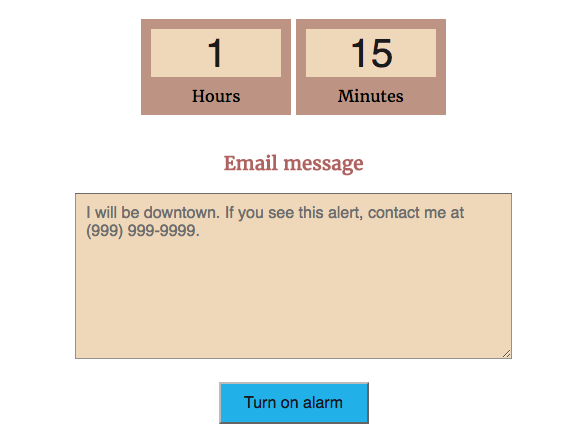
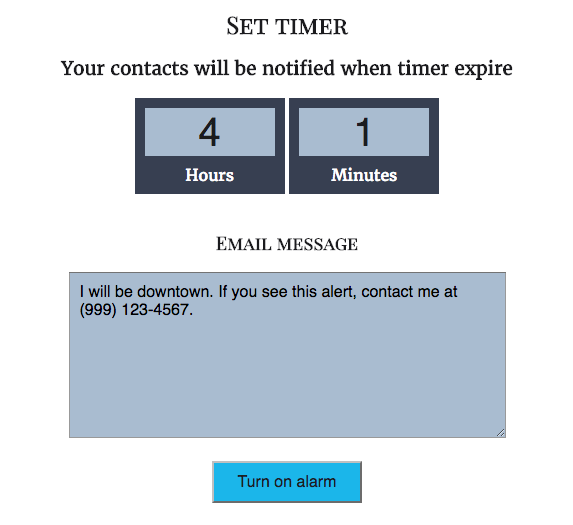
color

diff --git a/public/styles/main.css b/public/styles/main.css
@@ -15,11 +15,11 @@ body {
 main {
     margin: 0 auto;
     text-align: center;
-    color: #b56d69;
+    color: #1B1B1E;
 }
 
 button {
-    background-color: #F1DABF;
+    background-color: #A9BCD0;
     color: #000500;
 }
 
@@ -32,7 +32,7 @@ header {
     margin-bottom: 50px;
     display: flex;
     align-items: flex-end;
-    background-color: #c39b8a;
+    background-color: #58A4B0;
 }
 
 .navigation-container{
@@ -62,7 +62,8 @@ li {
 }
 
 li:hover:not(.active) {
-    background-color: #92817A;
+    background-color: #A9BCD0;
+    color: #F7F3E3;
     cursor: pointer;
 }
 
@@ -79,7 +80,7 @@ li:hover:not(.active) {
     font-weight: bold;
     margin-bottom: 20px;
     font-family: 'Varela Round','Playfair Display SC', serif;
-    color: #000500;
+    color: black;
 }
 
 .logo img {
@@ -98,11 +99,11 @@ li:hover:not(.active) {
     width: 150px;
     padding: 10px;
     margin-bottom: 20px;
-    background-color: #c39b8a;
+    background-color: #373F51;
 }
 
 .clock-text{
-    color: #000500;
+    color: #FFFFFF;
 }
 
 .alarm-container h2{
@@ -120,15 +121,14 @@ input[type='number'] {
     font-size: 30pt;
     border: none;
     text-align: center;
-    background-color: #F1DABF;
-    color: #1D201F;
+    background-color: #A9BCD0;
+    color: #1B1B1E;
 }
 
 textarea {
     padding: 10px;
     margin-bottom: 20px;
-    background-color: #F1DABF;
-    color: #1D201F;
+    background-color: #A9BCD0;
 }
 
 .button {
@@ -178,7 +178,7 @@ textarea {
     margin-top: 20px;
     width: 180px;
     height: 40px;
-    background-color: #F1DABF;
+    background-color: #A9BCD0;
     color: #000500;
 }
 
@@ -192,7 +192,7 @@ textarea {
     margin: 0 auto 30px;
     min-width: 30%;
     padding: 10px;
-    background-color: #c39b8a;
+    background-color: #373F51;
     color: #FFFFFF;
 }
 
@@ -242,6 +242,7 @@ label {
 
 .community-container input {
     display: block;
+    color: #A5243D;
     width: 20px;
     margin: 0 10px;
 }
@@ -251,8 +252,8 @@ label {
     margin: 30px auto;
     width: 180px;
     height: 40px;
-    background-color: #F1DABF;
-    color: #000500;
+    background-color: #A9BCD0;
+    color: #39393A;
 }
 
 #account-delete {
@@ -263,7 +264,7 @@ label {
 /*********************** demo *****************************/
 .demo{
     font-family: 'Merriweather', serif;
-    color: #362417;
+    color: #A5243D;
     margin: 7px 0 0 0;
     font-size: 12pt;
 }
@@ -277,6 +278,5 @@ label {
 
 .active {
     background-color: #FFFFFF;
-    color: #b56d69;
+    color: #39393A;
 }
-

diff --git a/router/userRouter.js b/router/userRouter.js
@@ -150,25 +150,27 @@ router.put('/:email', (req, res) => {
   let updateUser = getUpdateData(req);
   // If adding new contact, send sign-up email to contact
   if(req.body.contacts){
-    User
-    .findOne({'email': req.params.email})
-    .exec()
-    .then((user) => {
-      if(req.body.contacts.length > user.contacts.length){
-        let newContact = req.body.contacts[req.body.contacts.length - 1];
-        sendEmail({
-          from: '"Friend-Alert" <friend.alert.app@gmail.com>',
-          to: newContact.email,
-          subject: `Friend-Alert contact verification from ${user.name}`,
-          html: `Dear ${newContact.name},<br><br>${user.name} ` +
-          `signed you up as an emergency contact on Friend-Alert. ` +
-          `As an emergency contact, you will be alerted by email when ` +
-          `${user.name} is late for his/her user set alarm.<br><br>` +
-          `If you agree to be a Friend-Alert emergency contact, click ` +
-          `<a href="https://friend-alert.herokuapp.com/user/${req.params.email}/${newContact.email}" target="_blank">here</a>.`
-        });
-      }
-    }); // end then
+    if(req.params.email !== 'friend.alert.demo@gmail.com'){
+      User
+      .findOne({'email': req.params.email})
+      .exec()
+      .then((user) => {
+        if(req.body.contacts.length > user.contacts.length){
+          let newContact = req.body.contacts[req.body.contacts.length - 1];
+          sendEmail({
+            from: '"Friend-Alert" <friend.alert.app@gmail.com>',
+            to: newContact.email,
+            subject: `Friend-Alert contact verification from ${user.name}`,
+            html: `Dear ${newContact.name},<br><br>${user.name} ` +
+            `signed you up as an emergency contact on Friend-Alert. ` +
+            `As an emergency contact, you will be alerted by email when ` +
+            `${user.name} is late for his/her user set alarm.<br><br>` +
+            `If you agree to be a Friend-Alert emergency contact, click ` +
+            `<a href="https://friend-alert.herokuapp.com/user/${req.params.email}/${newContact.email}" target="_blank">here</a>.`
+          });
+        }
+      }); // end then
+    }
   } // end sending email to new contact
 
   User

diff --git a/public/styles/index.css b/public/styles/index.css
@@ -8,7 +8,7 @@ html {
 
 body {
     height: 100%;
-    background-color: #F1DABF;
+    background-color: #A9BCD0;
     font-family: 'Merriweather', serif;
     font-weight: bold;
 }
@@ -24,7 +24,7 @@ body {
     text-align: center;
     font-size: 40px;
     font-family: 'Varela Round','Playfair Display SC', serif;
-    color: #000500;
+    color: #1B1B1E;
 }
 
 .logo img{
@@ -76,7 +76,7 @@ body {
 
 .friend{
     font-family: 'Varela Round','Playfair Display SC', serif;
-    color: #362417;
+    color: #1B1B1E;
 }
 
 .sign-in-container {
@@ -133,7 +133,7 @@ button {
     position: absolute;
     width: 45%;
     top: 30px;
-    box-shadow: 5px 5px 5px #999999;
+    box-shadow: 3px 3px 3px black;
 }
 
 .two-text {
@@ -143,12 +143,12 @@ button {
     right: 0;
     width: 50%;
     margin-left: 20px;
-    color: #362417;
-    font-size: 32pt;   
+    color: #373F51;
+    font-size: 32pt;
 }
 
 .friend2 {
-    color:#2d91ff;
+    color: #A5243D;
     font-family:'Varela Round', serif;
 }
 
@@ -168,11 +168,11 @@ button {
     text-align: center;
     margin-top: 70px;
     font-size: 30pt;
-    color: #92817A;
+    color: #58A4B0;
 }
 
 .friend3 {
-    color: #ef9328;
+    color: #FE5D26;
     font-family:'Varela Round', serif;
 }
 
@@ -188,7 +188,7 @@ button {
 }
 
 .separator {
-    background-color: #ef9328;
+    background-color: #FE5D26;
     width: 5px;
     height: 60px;
     margin: 0 18px 0 15px;
@@ -198,7 +198,7 @@ button {
     display: flex;
     align-items: center;
     font-size: 25pt;
-    background-color: #362417;
+    background-color: #373F51;
     color: white;
     border-radius: 5px;
     padding: 5px 7px 5px 7px;

diff --git a/public/scripts/main.js b/public/scripts/main.js
@@ -131,6 +131,9 @@ $('#alarm-on-button').on('click', function(event) {
             $('#contact-container').addClass('active');
             $('.alarm-container').addClass('hidden');
             $('.contact-container').removeClass('hidden');
+            if(localStorage.email = 'friend.alert.demo@gmail.com'){
+                return alert(`Demo mode: add at least one emergency contact in the 'Contacts' tab before setting alarm. Contacts will be automatically deleted after timer expires.`)
+            }
             return alert(`You do not have any verified emergency contacts; at least one contact is required to send alerts. You can add and manage your contacts in the "Contacts" tab.`);
         }
     }

diff --git a/server.js b/server.js
@@ -69,12 +69,13 @@ const job = new cronJob('*/1 * * * *', () => {
             // delete DEMO contacts, set timer to 0.
             const query = {
               contacts: [],
+              message: '',
               alarmTime: 0,
               alertOn: false
             };
 
             User
-            .findOneAndUpdate({email: user.email}, {$set: {'contacts': []}}, {new: true})
+            .findOneAndUpdate({email: user.email}, {$set: query}, {new: true})
             .exec()
             .then(() => {
               res.send('success');

diff --git a/public/styles/verified.css b/public/styles/verified.css
@@ -11,7 +11,7 @@ body {
     background-color: #FFFFFF;
     text-align: center;
     font-family: 'Merriweather', serif;
-    color: #b56d69;
+    color: #373F51;
 }
 
 /***************** header **************************/
@@ -19,7 +19,7 @@ header {
     display: flex;
     width: 100%;
     height: 75px;
-    background-color: #c39b8a;
+    background-color: #58A4B0;
 }
 
 /****** logo ********/
@@ -40,7 +40,6 @@ header {
 
 a {
     text-decoration: none;
-    color: #1D201F;
 }
 
 
